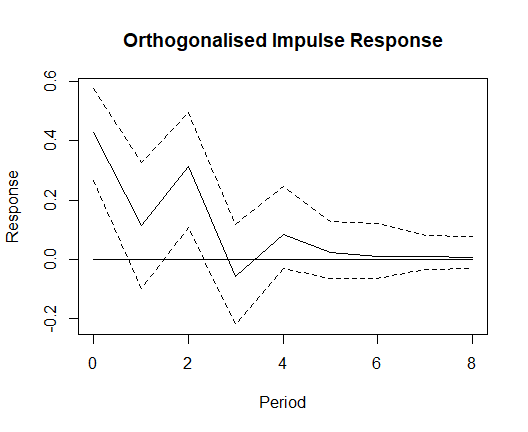
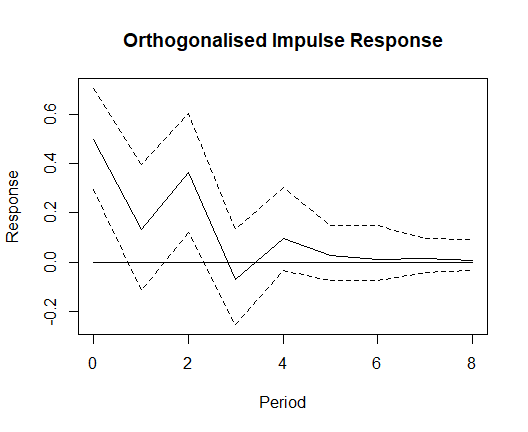
Let the pkgdown site build without complaint
Three things stood between `pkgdown::build_site()` and a clean run.

The reference index had fallen behind the package: `bvartools_model`,
`bayests_files`, `map_models`, `map_draws` and the three `multipliers`
topics had no section, which is an error rather than a warning and
stopped the build before a single reference page was written. Each is
now filed where it belongs -- the object description ahead of the
constructors that return it, `bayests_files` beside `bayests_posterior`,
the folder-level `map_*` functions with the other storage functions, and
`multipliers` with the rest of the structural analysis.

Every figure in the README now carries alt text describing what is on
it, taken from the rendered plot rather than from the code that drew it:
the three pages of `plot(bvar_est)` are the lagged endogenous
coefficients, the deterministic terms and the error covariance matrix,
and each says so. Seven images had no alt attribute at all and three had
an empty one, which marks an image as decorative -- wrong for a data
plot. Note that a chunk header has to stay on one line: breaking the
`fig.alt` vectors across lines turns the chunk into inline text and the
figures vanish from the knitted file.

The title of `cointspace_prior` and its `@section` both slugged to
`prior-on-the-cointegration-space`, which pandoc reported as a duplicate
identifier while building the markdown pages. The title now says what
the function does, which leaves the section name alone -- five other
[…]

diff --git a/README.md b/README.md
@@ -164,7 +164,7 @@ be changed there:
   `libwinpthread-1.dll`) into the same folder. Keep a copy of the
   original file. Replace only `Rblas.dll`, not `Rlapack.dll`, which R
   cannot load from OpenBLAS.
-- **Linux:** Install OpenBLAS, e.g. `sudo apt install libopenblas-dev`
+- **Linux:** Install OpenBLAS, e.g. `sudo apt install libopenblas-dev`
   on Debian and Ubuntu, and select it with
   `sudo update-alternatives --config libblas.so.3-x86_64-linux-gnu`.
   Distributions using FlexiBLAS, such as Fedora, select it through
@@ -191,8 +191,8 @@ stopCluster(cl)
 ```
 
 The script’s own session keeps all cores. To restrict it as well, set
-the variable before R starts, e.g.
-`OPENBLAS_NUM_THREADS=1 Rscript script.R`.
+the variable before R starts,
+e.g. `OPENBLAS_NUM_THREADS=1 Rscript script.R`.
 
 For lists of models none of this is needed:
 `add_posterior_coefficients()`, `add_posterior_forecasts()` and
@@ -247,7 +247,7 @@ e1 <- window(e1, end = c(1978, 4))
 plot(e1)
 ```
 
-<img src="man/figures/README-data-1.png" alt="" style="display: block; margin: auto;" />
+<img src="man/figures/README-data-1.png" alt="Three stacked time series panels showing the quarterly log-differences of West German fixed investment, disposable income and consumption expenditures from 1960 to 1978." style="display: block; margin: auto;" />
 
 ### Setting up a model
 
@@ -484,7 +484,7 @@ coefficients.
 plot(bvar_est)
 ```
 
-<img src="man/figures/README-unnamed-chunk-6-1.png" alt="" style="display: block; margin: auto;" /><img src="man/figures/README-unnamed-chunk-6-2.png" alt="" style="display: block; margin: auto;" /><img src="man/figures/README-unnamed-chunk-6-3.png" alt="" style="display: block; margin: auto;" />
+<img src="man/figures/README-unnamed-chunk-6-1.png" alt="Grid of histograms of the posterior draws of the coefficients on the lagged endogenous variables, one row per equation and one column per regressor." style="display: block; margin: auto;" /><img src="man/figures/README-unnamed-chunk-6-2.png" alt="Histograms of the posterior draws of the intercept of each of the three equations." style="display: block; margin: auto;" /><img src="man/figures/README-unnamed-chunk-6-3.png" alt="Grid of histograms of the posterior draws of the elements of the covariance matrix of the error term." style="display: block; margin: auto;" />
 
 Alternatively, the trace plot of the post-burnin draws can be drawn by
 adding the argument `type = "trace"`:
@@ -493,7 +493,7 @@ adding the argument `type = "trace"`:
 plot(bvar_est, type = "trace")
 ```
 
-<img src="man/figures/README-unnamed-chunk-7-1.png" alt="" style="display: block; margin: auto;" /><img src="man/figures/README-unnamed-chunk-7-2.png" alt="" style="display: block; margin: auto;" /><img src="man/figures/README-unnamed-chunk-7-3.png" alt="" style="display: block; margin: auto;" />
+<img src="man/figures/README-unnamed-chunk-7-1.png" alt="Grid of trace plots of the post-burnin draws of the coefficients on the lagged endogenous variables, one row per equation and one column per regressor." style="display: block; margin: auto;" /><img src="man/figures/README-unnamed-chunk-7-2.png" alt="Trace plots of the post-burnin draws of the intercept of each of the three equations." style="display: block; margin: auto;" /><img src="man/figures/README-unnamed-chunk-7-3.png" alt="Grid of trace plots of the post-burnin draws of the elements of the covariance matrix of the error term." style="display: block; margin: auto;" />
 
 ### Thin results
 
@@ -524,16 +524,11 @@ limited to specification used in `add_forecast_input`.
 
 ``` r
 bvar_pred <- predict(bvar_est)
-```
 
-    ## Warning in predict.bvarmodel(bvar_est): Argument 'n_ahead' is larger than the value in object$model$h.
-    ## Limiting the output to the latter.
-
-``` r
 plot(bvar_pred)
 ```
 
-![](man/figures/README-forecasts-1.png)<!-- -->![](man/figures/README-forecasts-2.png)<!-- -->![](man/figures/README-forecasts-3.png)<!-- -->
+<img src="man/figures/README-forecasts-1.png" alt="Fixed investment from 1960 to 1978 with a five-period forecast and its credible band attached to the end of the series."  /><img src="man/figures/README-forecasts-2.png" alt="Disposable income from 1960 to 1978 with a five-period forecast and its credible band attached to the end of the series."  /><img src="man/figures/README-forecasts-3.png" alt="Consumption expenditures from 1960 to 1978 with a five-period forecast and its credible band attached to the end of the series."  />
 
 ### Impulse response analysis
 
@@ -545,7 +540,7 @@ IR <- irf(bvar_est, impulse = "income", response = "cons", n_ahead = 8)
 plot(IR, main = "Forecast Error Impulse Response", xlab = "Period", ylab = "Response")
 ```
 
-![](man/figures/README-feir-1.png)<!-- -->
+<img src="man/figures/README-feir-1.png" alt="Forecast error impulse response of consumption to a shock in income over eight periods, drawn as the posterior median with a credible band around it."  />
 
 #### Orthogonalised impulse response
 
@@ -555,7 +550,7 @@ OIR <- irf(bvar_est, impulse = "income", response = "cons", n_ahead = 8, type = 
 plot(OIR, main = "Orthogonalised Impulse Response", xlab = "Period", ylab = "Response")
 ```
 
-![](man/figures/README-oir-1.png)<!-- -->
+<img src="man/figures/README-oir-1.png" alt="Orthogonalised impulse response of consumption to a shock in income over eight periods, drawn as the posterior median with a credible band around it."  />
 
 #### Generalised impulse response
 
@@ -565,7 +560,7 @@ GIR <- irf(bvar_est, impulse = "income", response = "cons", n_ahead = 8, type = 
 plot(GIR, main = "Generalised Impulse Response", xlab = "Period", ylab = "Response")
 ```
 
-![](man/figures/README-gir-1.png)<!-- -->
+<img src="man/figures/README-gir-1.png" alt="Generalised impulse response of consumption to a shock in income over eight periods, drawn as the posterior median with a credible band around it."  />
 
 ### Forecast error variance decomposition
 
@@ -575,7 +570,7 @@ bvar_fevd <- fevd(bvar_est, response = "cons")
 plot(bvar_fevd, main = "FEVD of consumption")
 ```
 
-![](man/figures/README-fevd-1.png)<!-- -->
+<img src="man/figures/README-fevd-1.png" alt="Stacked bar chart of the forecast error variance decomposition of consumption over six periods, with the share of the variance attributed to investment, income and consumption."  />
 
 ## References
 
